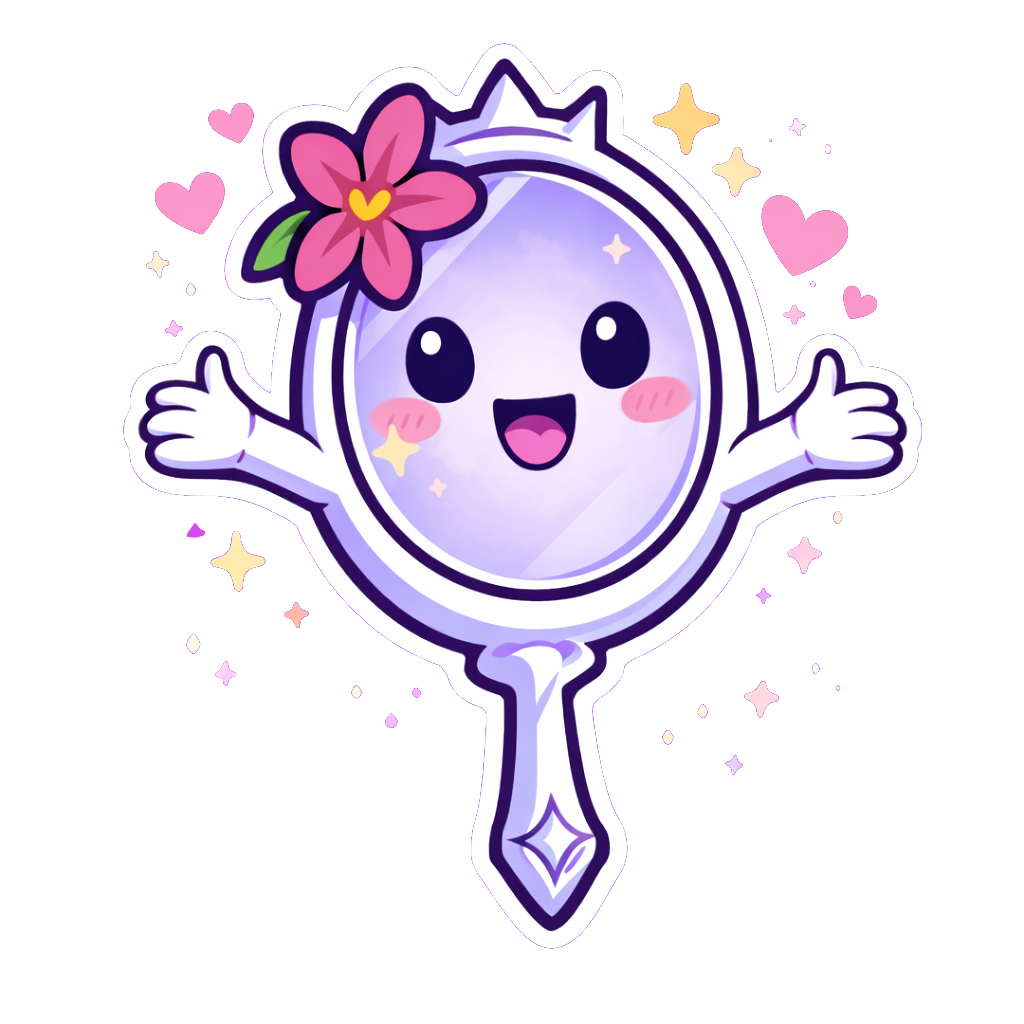
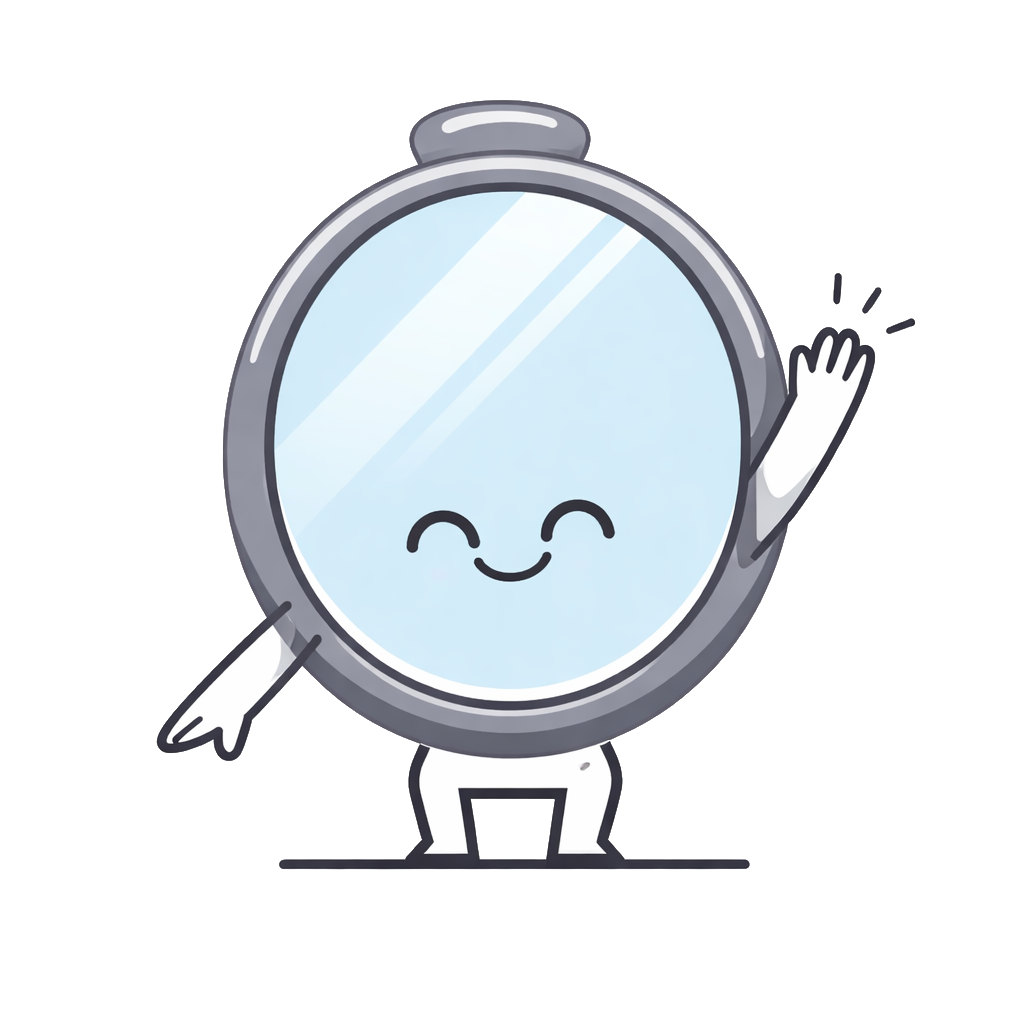
✏ UPDATE: Modification du texte d'introduction Project Glow

diff --git a/src/app/page.tsx b/src/app/page.tsx
@@ -2161,10 +2161,10 @@ PROCESO OBLIGATORIO:
           <div className="bg-gradient-to-br from-pink-50 to-rose-50 rounded-2xl p-8 shadow-sm">
             <p className="text-lg text-gray-700 leading-relaxed text-center">
               {language === 'fr'
-                ? "c'est l'app pour celles et ceux qui veulent provoquer un changement dans leur vie et devenir la personne qu'ils aspirent à être."
+                ? "Tu ne poursuis pas seulement des objectifs. Tu construis la personne capable de les atteindre."
                 : language === 'en'
-                  ? "it's the app for those who want to create change in their lives and become the person they aspire to be."
-                  : "es la aplicación para quienes quieren provocar un cambio en su vida y convertirse en la persona que aspiran a ser."
+                  ? "You're not just pursuing goals. You're building the person capable of achieving them."
+                  : "No solo persigues objetivos. Estás construyendo a la persona capaz de lograrlos."
               }
             </p>
           </div>
